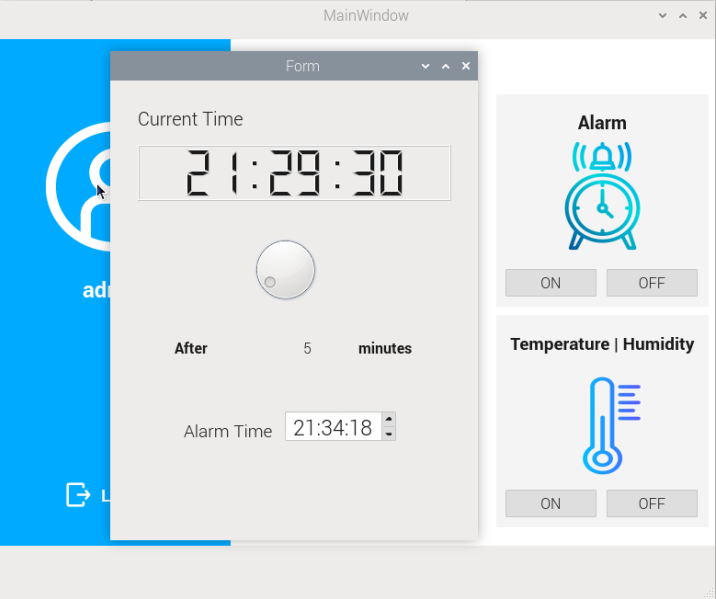
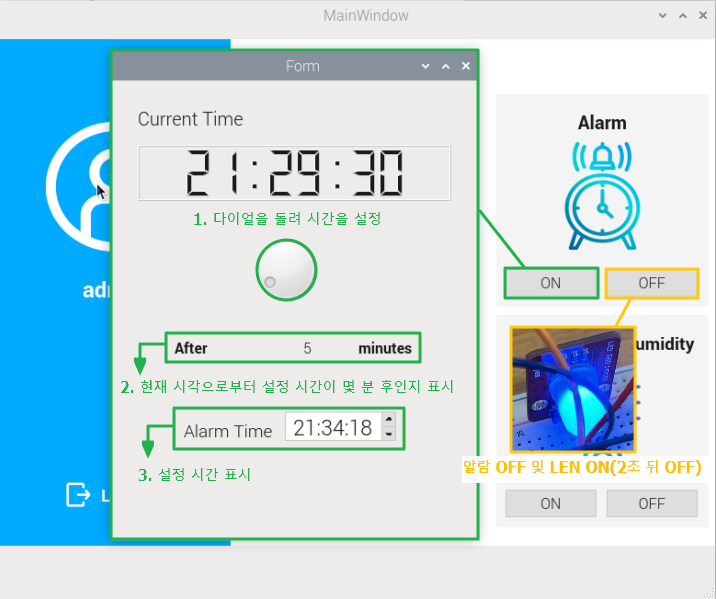
20240807

diff --git a/README.md b/README.md
@@ -1,4 +1,56 @@
 # raspberrypi-toyproject-2024
-Raspberry Pi 개인프로젝트 리포지토리
 
 **스마트홈**
+
+## 배경
+실시간으로 가정의 환경을 모니터링하고 제어할 수 있는 기능을 구현
+
+## 기능
+    - LED ON/OFF 기능: 사용자가 LED 조명을 켬/끔 및 조명의 밝기 조절 가능
+    - 알람 기능: 원하는 시간에 알람을 설정하고 설정된 시간에 정확하게 알람이 울림
+    - 온습도 감지 기능: 온습도 감지 센서를 통해 데이터를 수집하고, 데이터를 UI에 표시하여 온도와 습도를 실시간으로 모니터링 가능
+
+## 특징
+- 사용 모듈 : LED, 피에조 부저, 온습도 센서
+
+![모듈설치](https://raw.githubusercontent.com/LEUNSU/raspberrypi-toyproject-2024/main/images/rb013.png)
+
+- QtDesigner로 UI 설계 
+
+![UI화면](https://raw.githubusercontent.com/LEUNSU/raspberrypi-toyproject-2024/main/images/rb001.png)
+
+- Raspberry Pi 사용하여 터미널로 프로그램 작동 결과 확인
+
+![작동 결과](https://raw.githubusercontent.com/LEUNSU/raspberrypi-toyproject-2024/main/images/rb004.png)
+
+![작동 결과](https://raw.githubusercontent.com/LEUNSU/raspberrypi-toyproject-2024/main/images/rb006.png)
+
+
+## 프로그램 실행
+
+**하드웨어**
+
+![하드웨어](https://raw.githubusercontent.com/LEUNSU/raspberrypi-toyproject-2024/main/images/rb010.png)
+
+**소프트웨어**
+
+- LED ON/OFF 기능
+
+![LED기능](https://raw.githubusercontent.com/LEUNSU/raspberrypi-toyproject-2024/main/images/rb007.png)
+
+- 알람기능
+
+![알람기능](https://raw.githubusercontent.com/LEUNSU/raspberrypi-toyproject-2024/main/images/rb002.png)
+
+    - 다이얼로 알람이 울릴 시간을 설정, 설정된 시간이 되면 피에조 부저 작동
+    - 알람이 울린 후 OFF버튼을 누르면 알람 OFF 및 LED ON, 2초 뒤 OFF
+
+- 온습도 감지 기능
+
+![온습도기능](https://raw.githubusercontent.com/LEUNSU/raspberrypi-toyproject-2024/main/images/rb003.png)
+
+
+
+
+
+
